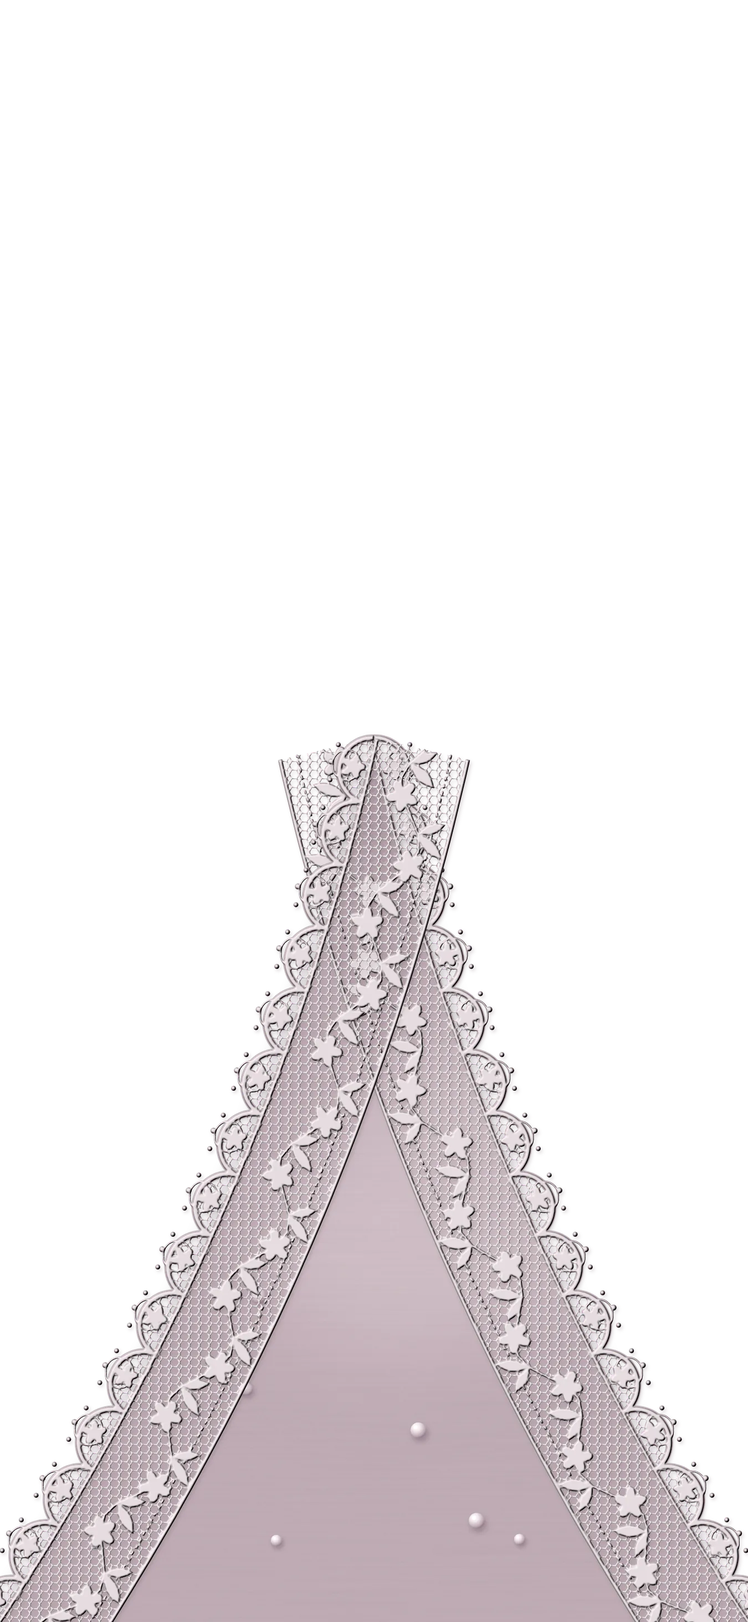
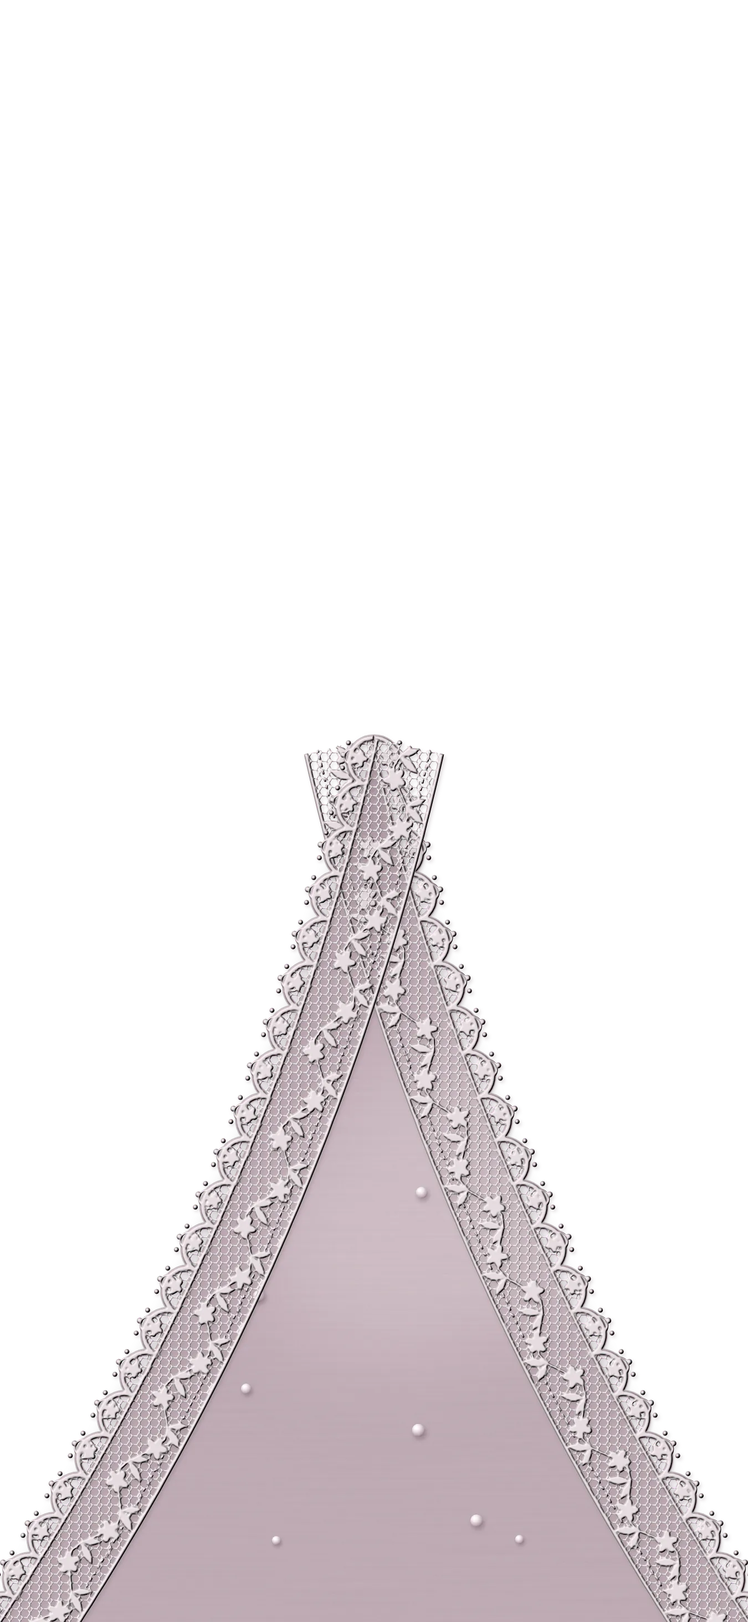
Slower, finer envelope opening
Claude-Session: https://claude.ai/code/session_012TaZ8zuKBP6pkFoWipGzvm

Changed region(s): [[0.0, 0.4356, 1.0, 1.0]]

diff --git a/janti/index.html b/janti/index.html
@@ -21,11 +21,11 @@ body.rd{overflow-y:auto}
 .fl img{pointer-events:none;user-select:none;-webkit-user-drag:none}.fl img.full{position:absolute;inset:0;width:100%;height:100%;object-fit:cover}
 .fl .shade{position:absolute;inset:0;background:#2a1220;opacity:0;pointer-events:none;-webkit-mask:var(--m) center/cover no-repeat;mask:var(--m) center/cover no-repeat}
 .fl.t{transform-origin:50% 0;z-index:4}.fl.b{transform-origin:50% 100%;z-index:3}.fl.l{transform-origin:0 50%;z-index:1}.fl.r{transform-origin:100% 50%;z-index:2}
-.seal{position:absolute;left:50%;top:50%;width:37.8%;height:auto;transform:translate(-50%,-50%);will-change:transform,opacity}.seal.sa{clip-path:polygon(0 0,57% 0,45% 20%,56% 38%,43% 58%,55% 78%,47% 100%,0 100%)}.seal.sb{clip-path:polygon(57% 0,100% 0,100% 100%,47% 100%,55% 78%,43% 58%,56% 38%,45% 20%)}
-.tag{position:absolute;left:50%;bottom:7.5%;transform:translateX(-50%);min-width:58%;max-width:82%;padding:12px 18px 11px;text-align:center;background:linear-gradient(#f6eff2,#e9dde3);border-radius:2px;box-shadow:0 0 0 1px #b9a0ad,0 0 0 4px #f3ebef,0 0 0 5px #b9a0ad88,0 10px 18px #3a1b2a55;color:var(--deep);display:none}
+.seal{position:absolute;left:50%;top:50%;width:29%;height:auto;transform:translate(-50%,-50%);will-change:transform,opacity}.seal.sa{clip-path:polygon(0 0,57% 0,45% 20%,56% 38%,43% 58%,55% 78%,47% 100%,0 100%)}.seal.sb{clip-path:polygon(57% 0,100% 0,100% 100%,47% 100%,55% 78%,43% 58%,56% 38%,45% 20%)}
+.tag{position:absolute;left:50%;bottom:8%;transform:translateX(-50%);min-width:46%;max-width:72%;padding:9px 14px 8px;text-align:center;background:linear-gradient(#f6eff2,#e9dde3);border-radius:2px;box-shadow:0 0 0 1px #b9a0ad,0 0 0 4px #f3ebef,0 0 0 5px #b9a0ad88,0 10px 18px #3a1b2a55;color:var(--deep);display:none}
 .tag:before{content:'';position:absolute;left:50%;top:-8px;width:10px;height:10px;margin-left:-5px;border-radius:50%;background:radial-gradient(circle at 35% 30%,#fff,#d8c8d0 45%,#9d8592);box-shadow:0 1px 2px #0005}
-.tag small{display:block;font:500 10.5px var(--bd);letter-spacing:.34em;text-transform:uppercase;color:#8a6f7d}
-.tag b{display:block;font:400 26px/1.15 var(--sc);color:var(--deep);overflow-wrap:anywhere}
+.tag small{display:block;font:500 9px var(--bd);letter-spacing:.34em;text-transform:uppercase;color:#8a6f7d}
+.tag b{display:block;font:400 21px/1.15 var(--sc);color:var(--deep);overflow-wrap:anywhere}
 .named .tag{display:block}
 .hint{position:absolute;left:0;right:0;bottom:2.4%;text-align:center;font:500 11px var(--bd);letter-spacing:.36em;text-transform:uppercase;color:#7a5f6d;z-index:6;transition:opacity .4s;animation:breathe 2.6s ease-in-out infinite;transform:translateZ(2px)}
 @keyframes breathe{50%{opacity:.4}}
@@ -242,19 +242,19 @@ function open(user){if(opened)return;if(!ready){want=user;return}opened=true;env
  var t=env.querySelector('.fl.t'),b=env.querySelector('.fl.b'),l=env.querySelector('.fl.l'),r=env.querySelector('.fl.r'),hero=$('hero'),bg=hero.querySelector('.bg');
  if(!env.animate){finish();return}
  var sa=env.querySelector('.seal.sa'),sb=env.querySelector('.seal.sb');
- an(sa,[{transform:'translate(-50%,-50%)',opacity:1},{transform:'translate(-50%,-50%) translate(-6px,2px) rotate(-4deg)',opacity:1,offset:.25},{transform:'translate(-50%,-50%) translate(-46px,30px) rotate(-26deg)',opacity:0}],{duration:800,easing:'cubic-bezier(.4,0,.6,1)'});
- an(sb,[{transform:'translate(-50%,-50%)',opacity:1},{transform:'translate(-50%,-50%) translate(6px,3px) rotate(4deg)',opacity:1,offset:.25},{transform:'translate(-50%,-50%) translate(48px,36px) rotate(24deg)',opacity:0}],{duration:800,easing:'cubic-bezier(.4,0,.6,1)'});
- var E2='cubic-bezier(.45,.02,.25,1)';
+ an(sa,[{transform:'translate(-50%,-50%)',opacity:1},{transform:'translate(-50%,-50%) translate(-4px,1px) rotate(-3deg)',opacity:1,offset:.3},{transform:'translate(-50%,-50%) translate(-40px,26px) rotate(-22deg)',opacity:0}],{duration:1300,easing:'cubic-bezier(.4,0,.5,1)'});
+ an(sb,[{transform:'translate(-50%,-50%)',opacity:1},{transform:'translate(-50%,-50%) translate(4px,2px) rotate(3deg)',opacity:1,offset:.3},{transform:'translate(-50%,-50%) translate(42px,30px) rotate(20deg)',opacity:0}],{duration:1300,easing:'cubic-bezier(.4,0,.5,1)'});
+ var E2='cubic-bezier(.42,0,.22,1)';
  function flip(el,axis,deg,z,delay,dur){var o={duration:dur,delay:delay,easing:E2};
   an(el,[{transform:'translateZ('+z+'px) rotate'+axis+'(0deg)'},{transform:'translateZ('+z+'px) rotate'+axis+'('+deg+'deg)'}],o);
   var f=el.querySelector('.fc .shd'),k=el.querySelector('.bk .shd');
   an(f,[{opacity:0},{opacity:.28,offset:.5},{opacity:.28}],o);an(k,[{opacity:.3},{opacity:.3,offset:.5},{opacity:.05}],o)}
- flip(t,'X',180,1.5,420,1350);
- flip(b,'X',-180,1,950,1300);
- flip(l,'Y',-180,0,1350,1300);flip(r,'Y',180,0,1430,1300);
- an(bg,[{transform:'scale(1.08)'},{transform:'scale(1)'}],{duration:2400,delay:900,easing:'cubic-bezier(.2,.7,.2,1)'});
- setTimeout(function(){hero.classList.add('in')},2300);
- setTimeout(finish,2900)}
+ flip(t,'X',180,1.5,700,2300);
+ flip(b,'X',-180,1,1700,2200);
+ flip(l,'Y',-180,0,2400,2200);flip(r,'Y',180,0,2550,2200);
+ an(bg,[{transform:'scale(1.08)'},{transform:'scale(1)'}],{duration:3600,delay:1400,easing:'cubic-bezier(.2,.7,.2,1)'});
+ setTimeout(function(){hero.classList.add('in')},4000);
+ setTimeout(finish,4900)}
 function finish(){document.body.classList.add('rd');if(window.startSpk)startSpk();secs[0].classList.add('in');env.style.display='none';if(io)for(var i=1;i<secs.length;i++)io.observe(secs[i]);else secs.forEach(function(s){s.classList.add('in')});par()}
 env.style.backgroundColor='transparent';
 env.addEventListener('click',function(){open(true)});

diff --git a/ne/janti/index.html b/ne/janti/index.html
@@ -21,11 +21,11 @@ body.rd{overflow-y:auto}
 .fl img{pointer-events:none;user-select:none;-webkit-user-drag:none}.fl img.full{position:absolute;inset:0;width:100%;height:100%;object-fit:cover}
 .fl .shade{position:absolute;inset:0;background:#2a1220;opacity:0;pointer-events:none;-webkit-mask:var(--m) center/cover no-repeat;mask:var(--m) center/cover no-repeat}
 .fl.t{transform-origin:50% 0;z-index:4}.fl.b{transform-origin:50% 100%;z-index:3}.fl.l{transform-origin:0 50%;z-index:1}.fl.r{transform-origin:100% 50%;z-index:2}
-.seal{position:absolute;left:50%;top:50%;width:37.8%;height:auto;transform:translate(-50%,-50%);will-change:transform,opacity}.seal.sa{clip-path:polygon(0 0,57% 0,45% 20%,56% 38%,43% 58%,55% 78%,47% 100%,0 100%)}.seal.sb{clip-path:polygon(57% 0,100% 0,100% 100%,47% 100%,55% 78%,43% 58%,56% 38%,45% 20%)}
-.tag{position:absolute;left:50%;bottom:7.5%;transform:translateX(-50%);min-width:58%;max-width:82%;padding:12px 18px 11px;text-align:center;background:linear-gradient(#f6eff2,#e9dde3);border-radius:2px;box-shadow:0 0 0 1px #b9a0ad,0 0 0 4px #f3ebef,0 0 0 5px #b9a0ad88,0 10px 18px #3a1b2a55;color:var(--deep);display:none}
+.seal{position:absolute;left:50%;top:50%;width:29%;height:auto;transform:translate(-50%,-50%);will-change:transform,opacity}.seal.sa{clip-path:polygon(0 0,57% 0,45% 20%,56% 38%,43% 58%,55% 78%,47% 100%,0 100%)}.seal.sb{clip-path:polygon(57% 0,100% 0,100% 100%,47% 100%,55% 78%,43% 58%,56% 38%,45% 20%)}
+.tag{position:absolute;left:50%;bottom:8%;transform:translateX(-50%);min-width:46%;max-width:72%;padding:9px 14px 8px;text-align:center;background:linear-gradient(#f6eff2,#e9dde3);border-radius:2px;box-shadow:0 0 0 1px #b9a0ad,0 0 0 4px #f3ebef,0 0 0 5px #b9a0ad88,0 10px 18px #3a1b2a55;color:var(--deep);display:none}
 .tag:before{content:'';position:absolute;left:50%;top:-8px;width:10px;height:10px;margin-left:-5px;border-radius:50%;background:radial-gradient(circle at 35% 30%,#fff,#d8c8d0 45%,#9d8592);box-shadow:0 1px 2px #0005}
-.tag small{display:block;font:500 10.5px var(--bd);letter-spacing:.34em;text-transform:uppercase;color:#8a6f7d}
-.tag b{display:block;font:400 26px/1.15 var(--sc);color:var(--deep);overflow-wrap:anywhere}
+.tag small{display:block;font:500 9px var(--bd);letter-spacing:.34em;text-transform:uppercase;color:#8a6f7d}
+.tag b{display:block;font:400 21px/1.15 var(--sc);color:var(--deep);overflow-wrap:anywhere}
 .named .tag{display:block}
 .hint{position:absolute;left:0;right:0;bottom:2.4%;text-align:center;font:500 11px var(--bd);letter-spacing:.36em;text-transform:uppercase;color:#7a5f6d;z-index:6;transition:opacity .4s;animation:breathe 2.6s ease-in-out infinite;transform:translateZ(2px)}
 @keyframes breathe{50%{opacity:.4}}
@@ -242,19 +242,19 @@ function open(user){if(opened)return;if(!ready){want=user;return}opened=true;env
  var t=env.querySelector('.fl.t'),b=env.querySelector('.fl.b'),l=env.querySelector('.fl.l'),r=env.querySelector('.fl.r'),hero=$('hero'),bg=hero.querySelector('.bg');
  if(!env.animate){finish();return}
  var sa=env.querySelector('.seal.sa'),sb=env.querySelector('.seal.sb');
- an(sa,[{transform:'translate(-50%,-50%)',opacity:1},{transform:'translate(-50%,-50%) translate(-6px,2px) rotate(-4deg)',opacity:1,offset:.25},{transform:'translate(-50%,-50%) translate(-46px,30px) rotate(-26deg)',opacity:0}],{duration:800,easing:'cubic-bezier(.4,0,.6,1)'});
- an(sb,[{transform:'translate(-50%,-50%)',opacity:1},{transform:'translate(-50%,-50%) translate(6px,3px) rotate(4deg)',opacity:1,offset:.25},{transform:'translate(-50%,-50%) translate(48px,36px) rotate(24deg)',opacity:0}],{duration:800,easing:'cubic-bezier(.4,0,.6,1)'});
- var E2='cubic-bezier(.45,.02,.25,1)';
+ an(sa,[{transform:'translate(-50%,-50%)',opacity:1},{transform:'translate(-50%,-50%) translate(-4px,1px) rotate(-3deg)',opacity:1,offset:.3},{transform:'translate(-50%,-50%) translate(-40px,26px) rotate(-22deg)',opacity:0}],{duration:1300,easing:'cubic-bezier(.4,0,.5,1)'});
+ an(sb,[{transform:'translate(-50%,-50%)',opacity:1},{transform:'translate(-50%,-50%) translate(4px,2px) rotate(3deg)',opacity:1,offset:.3},{transform:'translate(-50%,-50%) translate(42px,30px) rotate(20deg)',opacity:0}],{duration:1300,easing:'cubic-bezier(.4,0,.5,1)'});
+ var E2='cubic-bezier(.42,0,.22,1)';
  function flip(el,axis,deg,z,delay,dur){var o={duration:dur,delay:delay,easing:E2};
   an(el,[{transform:'translateZ('+z+'px) rotate'+axis+'(0deg)'},{transform:'translateZ('+z+'px) rotate'+axis+'('+deg+'deg)'}],o);
   var f=el.querySelector('.fc .shd'),k=el.querySelector('.bk .shd');
   an(f,[{opacity:0},{opacity:.28,offset:.5},{opacity:.28}],o);an(k,[{opacity:.3},{opacity:.3,offset:.5},{opacity:.05}],o)}
- flip(t,'X',180,1.5,420,1350);
- flip(b,'X',-180,1,950,1300);
- flip(l,'Y',-180,0,1350,1300);flip(r,'Y',180,0,1430,1300);
- an(bg,[{transform:'scale(1.08)'},{transform:'scale(1)'}],{duration:2400,delay:900,easing:'cubic-bezier(.2,.7,.2,1)'});
- setTimeout(function(){hero.classList.add('in')},2300);
- setTimeout(finish,2900)}
+ flip(t,'X',180,1.5,700,2300);
+ flip(b,'X',-180,1,1700,2200);
+ flip(l,'Y',-180,0,2400,2200);flip(r,'Y',180,0,2550,2200);
+ an(bg,[{transform:'scale(1.08)'},{transform:'scale(1)'}],{duration:3600,delay:1400,easing:'cubic-bezier(.2,.7,.2,1)'});
+ setTimeout(function(){hero.classList.add('in')},4000);
+ setTimeout(finish,4900)}
 function finish(){document.body.classList.add('rd');if(window.startSpk)startSpk();secs[0].classList.add('in');env.style.display='none';if(io)for(var i=1;i<secs.length;i++)io.observe(secs[i]);else secs.forEach(function(s){s.classList.add('in')});par()}
 env.style.backgroundColor='transparent';
 env.addEventListener('click',function(){open(true)});

diff --git a/ne/reception/index.html b/ne/reception/index.html
@@ -21,11 +21,11 @@ body.rd{overflow-y:auto}
 .fl img{pointer-events:none;user-select:none;-webkit-user-drag:none}.fl img.full{position:absolute;inset:0;width:100%;height:100%;object-fit:cover}
 .fl .shade{position:absolute;inset:0;background:#2a1220;opacity:0;pointer-events:none;-webkit-mask:var(--m) center/cover no-repeat;mask:var(--m) center/cover no-repeat}
 .fl.t{transform-origin:50% 0;z-index:4}.fl.b{transform-origin:50% 100%;z-index:3}.fl.l{transform-origin:0 50%;z-index:1}.fl.r{transform-origin:100% 50%;z-index:2}
-.seal{position:absolute;left:50%;top:50%;width:37.8%;height:auto;transform:translate(-50%,-50%);will-change:transform,opacity}.seal.sa{clip-path:polygon(0 0,57% 0,45% 20%,56% 38%,43% 58%,55% 78%,47% 100%,0 100%)}.seal.sb{clip-path:polygon(57% 0,100% 0,100% 100%,47% 100%,55% 78%,43% 58%,56% 38%,45% 20%)}
-.tag{position:absolute;left:50%;bottom:7.5%;transform:translateX(-50%);min-width:58%;max-width:82%;padding:12px 18px 11px;text-align:center;background:linear-gradient(#f6eff2,#e9dde3);border-radius:2px;box-shadow:0 0 0 1px #b9a0ad,0 0 0 4px #f3ebef,0 0 0 5px #b9a0ad88,0 10px 18px #3a1b2a55;color:var(--deep);display:none}
+.seal{position:absolute;left:50%;top:50%;width:29%;height:auto;transform:translate(-50%,-50%);will-change:transform,opacity}.seal.sa{clip-path:polygon(0 0,57% 0,45% 20%,56% 38%,43% 58%,55% 78%,47% 100%,0 100%)}.seal.sb{clip-path:polygon(57% 0,100% 0,100% 100%,47% 100%,55% 78%,43% 58%,56% 38%,45% 20%)}
+.tag{position:absolute;left:50%;bottom:8%;transform:translateX(-50%);min-width:46%;max-width:72%;padding:9px 14px 8px;text-align:center;background:linear-gradient(#f6eff2,#e9dde3);border-radius:2px;box-shadow:0 0 0 1px #b9a0ad,0 0 0 4px #f3ebef,0 0 0 5px #b9a0ad88,0 10px 18px #3a1b2a55;color:var(--deep);display:none}
 .tag:before{content:'';position:absolute;left:50%;top:-8px;width:10px;height:10px;margin-left:-5px;border-radius:50%;background:radial-gradient(circle at 35% 30%,#fff,#d8c8d0 45%,#9d8592);box-shadow:0 1px 2px #0005}
-.tag small{display:block;font:500 10.5px var(--bd);letter-spacing:.34em;text-transform:uppercase;color:#8a6f7d}
-.tag b{display:block;font:400 26px/1.15 var(--sc);color:var(--deep);overflow-wrap:anywhere}
+.tag small{display:block;font:500 9px var(--bd);letter-spacing:.34em;text-transform:uppercase;color:#8a6f7d}
+.tag b{display:block;font:400 21px/1.15 var(--sc);color:var(--deep);overflow-wrap:anywhere}
 .named .tag{display:block}
 .hint{position:absolute;left:0;right:0;bottom:2.4%;text-align:center;font:500 11px var(--bd);letter-spacing:.36em;text-transform:uppercase;color:#7a5f6d;z-index:6;transition:opacity .4s;animation:breathe 2.6s ease-in-out infinite;transform:translateZ(2px)}
 @keyframes breathe{50%{opacity:.4}}
@@ -242,19 +242,19 @@ function open(user){if(opened)return;if(!ready){want=user;return}opened=true;env
  var t=env.querySelector('.fl.t'),b=env.querySelector('.fl.b'),l=env.querySelector('.fl.l'),r=env.querySelector('.fl.r'),hero=$('hero'),bg=hero.querySelector('.bg');
  if(!env.animate){finish();return}
  var sa=env.querySelector('.seal.sa'),sb=env.querySelector('.seal.sb');
- an(sa,[{transform:'translate(-50%,-50%)',opacity:1},{transform:'translate(-50%,-50%) translate(-6px,2px) rotate(-4deg)',opacity:1,offset:.25},{transform:'translate(-50%,-50%) translate(-46px,30px) rotate(-26deg)',opacity:0}],{duration:800,easing:'cubic-bezier(.4,0,.6,1)'});
- an(sb,[{transform:'translate(-50%,-50%)',opacity:1},{transform:'translate(-50%,-50%) translate(6px,3px) rotate(4deg)',opacity:1,offset:.25},{transform:'translate(-50%,-50%) translate(48px,36px) rotate(24deg)',opacity:0}],{duration:800,easing:'cubic-bezier(.4,0,.6,1)'});
- var E2='cubic-bezier(.45,.02,.25,1)';
+ an(sa,[{transform:'translate(-50%,-50%)',opacity:1},{transform:'translate(-50%,-50%) translate(-4px,1px) rotate(-3deg)',opacity:1,offset:.3},{transform:'translate(-50%,-50%) translate(-40px,26px) rotate(-22deg)',opacity:0}],{duration:1300,easing:'cubic-bezier(.4,0,.5,1)'});
+ an(sb,[{transform:'translate(-50%,-50%)',opacity:1},{transform:'translate(-50%,-50%) translate(4px,2px) rotate(3deg)',opacity:1,offset:.3},{transform:'translate(-50%,-50%) translate(42px,30px) rotate(20deg)',opacity:0}],{duration:1300,easing:'cubic-bezier(.4,0,.5,1)'});
+ var E2='cubic-bezier(.42,0,.22,1)';
  function flip(el,axis,deg,z,delay,dur){var o={duration:dur,delay:delay,easing:E2};
   an(el,[{transform:'translateZ('+z+'px) rotate'+axis+'(0deg)'},{transform:'translateZ('+z+'px) rotate'+axis+'('+deg+'deg)'}],o);
   var f=el.querySelector('.fc .shd'),k=el.querySelector('.bk .shd');
   an(f,[{opacity:0},{opacity:.28,offset:.5},{opacity:.28}],o);an(k,[{opacity:.3},{opacity:.3,offset:.5},{opacity:.05}],o)}
- flip(t,'X',180,1.5,420,1350);
- flip(b,'X',-180,1,950,1300);
- flip(l,'Y',-180,0,1350,1300);flip(r,'Y',180,0,1430,1300);
- an(bg,[{transform:'scale(1.08)'},{transform:'scale(1)'}],{duration:2400,delay:900,easing:'cubic-bezier(.2,.7,.2,1)'});
- setTimeout(function(){hero.classList.add('in')},2300);
- setTimeout(finish,2900)}
+ flip(t,'X',180,1.5,700,2300);
+ flip(b,'X',-180,1,1700,2200);
+ flip(l,'Y',-180,0,2400,2200);flip(r,'Y',180,0,2550,2200);
+ an(bg,[{transform:'scale(1.08)'},{transform:'scale(1)'}],{duration:3600,delay:1400,easing:'cubic-bezier(.2,.7,.2,1)'});
+ setTimeout(function(){hero.classList.add('in')},4000);
+ setTimeout(finish,4900)}
 function finish(){document.body.classList.add('rd');if(window.startSpk)startSpk();secs[0].classList.add('in');env.style.display='none';if(io)for(var i=1;i<secs.length;i++)io.observe(secs[i]);else secs.forEach(function(s){s.classList.add('in')});par()}
 env.style.backgroundColor='transparent';
 env.addEventListener('click',function(){open(true)});

diff --git a/ne/wedding/index.html b/ne/wedding/index.html
@@ -21,11 +21,11 @@ body.rd{overflow-y:auto}
 .fl img{pointer-events:none;user-select:none;-webkit-user-drag:none}.fl img.full{position:absolute;inset:0;width:100%;height:100%;object-fit:cover}
 .fl .shade{position:absolute;inset:0;background:#2a1220;opacity:0;pointer-events:none;-webkit-mask:var(--m) center/cover no-repeat;mask:var(--m) center/cover no-repeat}
 .fl.t{transform-origin:50% 0;z-index:4}.fl.b{transform-origin:50% 100%;z-index:3}.fl.l{transform-origin:0 50%;z-index:1}.fl.r{transform-origin:100% 50%;z-index:2}
-.seal{position:absolute;left:50%;top:50%;width:37.8%;height:auto;transform:translate(-50%,-50%);will-change:transform,opacity}.seal.sa{clip-path:polygon(0 0,57% 0,45% 20%,56% 38%,43% 58%,55% 78%,47% 100%,0 100%)}.seal.sb{clip-path:polygon(57% 0,100% 0,100% 100%,47% 100%,55% 78%,43% 58%,56% 38%,45% 20%)}
-.tag{position:absolute;left:50%;bottom:7.5%;transform:translateX(-50%);min-width:58%;max-width:82%;padding:12px 18px 11px;text-align:center;background:linear-gradient(#f6eff2,#e9dde3);border-radius:2px;box-shadow:0 0 0 1px #b9a0ad,0 0 0 4px #f3ebef,0 0 0 5px #b9a0ad88,0 10px 18px #3a1b2a55;color:var(--deep);display:none}
+.seal{position:absolute;left:50%;top:50%;width:29%;height:auto;transform:translate(-50%,-50%);will-change:transform,opacity}.seal.sa{clip-path:polygon(0 0,57% 0,45% 20%,56% 38%,43% 58%,55% 78%,47% 100%,0 100%)}.seal.sb{clip-path:polygon(57% 0,100% 0,100% 100%,47% 100%,55% 78%,43% 58%,56% 38%,45% 20%)}
+.tag{position:absolute;left:50%;bottom:8%;transform:translateX(-50%);min-width:46%;max-width:72%;padding:9px 14px 8px;text-align:center;background:linear-gradient(#f6eff2,#e9dde3);border-radius:2px;box-shadow:0 0 0 1px #b9a0ad,0 0 0 4px #f3ebef,0 0 0 5px #b9a0ad88,0 10px 18px #3a1b2a55;color:var(--deep);display:none}
 .tag:before{content:'';position:absolute;left:50%;top:-8px;width:10px;height:10px;margin-left:-5px;border-radius:50%;background:radial-gradient(circle at 35% 30%,#fff,#d8c8d0 45%,#9d8592);box-shadow:0 1px 2px #0005}
-.tag small{display:block;font:500 10.5px var(--bd);letter-spacing:.34em;text-transform:uppercase;color:#8a6f7d}
-.tag b{display:block;font:400 26px/1.15 var(--sc);color:var(--deep);overflow-wrap:anywhere}
+.tag small{display:block;font:500 9px var(--bd);letter-spacing:.34em;text-transform:uppercase;color:#8a6f7d}
+.tag b{display:block;font:400 21px/1.15 var(--sc);color:var(--deep);overflow-wrap:anywhere}
 .named .tag{display:block}
 .hint{position:absolute;left:0;right:0;bottom:2.4%;text-align:center;font:500 11px var(--bd);letter-spacing:.36em;text-transform:uppercase;color:#7a5f6d;z-index:6;transition:opacity .4s;animation:breathe 2.6s ease-in-out infinite;transform:translateZ(2px)}
 @keyframes breathe{50%{opacity:.4}}
@@ -242,19 +242,19 @@ function open(user){if(opened)return;if(!ready){want=user;return}opened=true;env
  var t=env.querySelector('.fl.t'),b=env.querySelector('.fl.b'),l=env.querySelector('.fl.l'),r=env.querySelector('.fl.r'),hero=$('hero'),bg=hero.querySelector('.bg');
  if(!env.animate){finish();return}
  var sa=env.querySelector('.seal.sa'),sb=env.querySelector('.seal.sb');
- an(sa,[{transform:'translate(-50%,-50%)',opacity:1},{transform:'translate(-50%,-50%) translate(-6px,2px) rotate(-4deg)',opacity:1,offset:.25},{transform:'translate(-50%,-50%) translate(-46px,30px) rotate(-26deg)',opacity:0}],{duration:800,easing:'cubic-bezier(.4,0,.6,1)'});
- an(sb,[{transform:'translate(-50%,-50%)',opacity:1},{transform:'translate(-50%,-50%) translate(6px,3px) rotate(4deg)',opacity:1,offset:.25},{transform:'translate(-50%,-50%) translate(48px,36px) rotate(24deg)',opacity:0}],{duration:800,easing:'cubic-bezier(.4,0,.6,1)'});
- var E2='cubic-bezier(.45,.02,.25,1)';
+ an(sa,[{transform:'translate(-50%,-50%)',opacity:1},{transform:'translate(-50%,-50%) translate(-4px,1px) rotate(-3deg)',opacity:1,offset:.3},{transform:'translate(-50%,-50%) translate(-40px,26px) rotate(-22deg)',opacity:0}],{duration:1300,easing:'cubic-bezier(.4,0,.5,1)'});
+ an(sb,[{transform:'translate(-50%,-50%)',opacity:1},{transform:'translate(-50%,-50%) translate(4px,2px) rotate(3deg)',opacity:1,offset:.3},{transform:'translate(-50%,-50%) translate(42px,30px) rotate(20deg)',opacity:0}],{duration:1300,easing:'cubic-bezier(.4,0,.5,1)'});
+ var E2='cubic-bezier(.42,0,.22,1)';
  function flip(el,axis,deg,z,delay,dur){var o={duration:dur,delay:delay,easing:E2};
   an(el,[{transform:'translateZ('+z+'px) rotate'+axis+'(0deg)'},{transform:'translateZ('+z+'px) rotate'+axis+'('+deg+'deg)'}],o);
   var f=el.querySelector('.fc .shd'),k=el.querySelector('.bk .shd');
   an(f,[{opacity:0},{opacity:.28,offset:.5},{opacity:.28}],o);an(k,[{opacity:.3},{opacity:.3,offset:.5},{opacity:.05}],o)}
- flip(t,'X',180,1.5,420,1350);
- flip(b,'X',-180,1,950,1300);
- flip(l,'Y',-180,0,1350,1300);flip(r,'Y',180,0,1430,1300);
- an(bg,[{transform:'scale(1.08)'},{transform:'scale(1)'}],{duration:2400,delay:900,easing:'cubic-bezier(.2,.7,.2,1)'});
- setTimeout(function(){hero.classList.add('in')},2300);
- setTimeout(finish,2900)}
+ flip(t,'X',180,1.5,700,2300);
+ flip(b,'X',-180,1,1700,2200);
+ flip(l,'Y',-180,0,2400,2200);flip(r,'Y',180,0,2550,2200);
+ an(bg,[{transform:'scale(1.08)'},{transform:'scale(1)'}],{duration:3600,delay:1400,easing:'cubic-bezier(.2,.7,.2,1)'});
+ setTimeout(function(){hero.classList.add('in')},4000);
+ setTimeout(finish,4900)}
 function finish(){document.body.classList.add('rd');if(window.startSpk)startSpk();secs[0].classList.add('in');env.style.display='none';if(io)for(var i=1;i<secs.length;i++)io.observe(secs[i]);else secs.forEach(function(s){s.classList.add('in')});par()}
 env.style.backgroundColor='transparent';
 env.addEventListener('click',function(){open(true)});

diff --git a/reception/index.html b/reception/index.html
@@ -21,11 +21,11 @@ body.rd{overflow-y:auto}
 .fl img{pointer-events:none;user-select:none;-webkit-user-drag:none}.fl img.full{position:absolute;inset:0;width:100%;height:100%;object-fit:cover}
 .fl .shade{position:absolute;inset:0;background:#2a1220;opacity:0;pointer-events:none;-webkit-mask:var(--m) center/cover no-repeat;mask:var(--m) center/cover no-repeat}
 .fl.t{transform-origin:50% 0;z-index:4}.fl.b{transform-origin:50% 100%;z-index:3}.fl.l{transform-origin:0 50%;z-index:1}.fl.r{transform-origin:100% 50%;z-index:2}
-.seal{position:absolute;left:50%;top:50%;width:37.8%;height:auto;transform:translate(-50%,-50%);will-change:transform,opacity}.seal.sa{clip-path:polygon(0 0,57% 0,45% 20%,56% 38%,43% 58%,55% 78%,47% 100%,0 100%)}.seal.sb{clip-path:polygon(57% 0,100% 0,100% 100%,47% 100%,55% 78%,43% 58%,56% 38%,45% 20%)}
-.tag{position:absolute;left:50%;bottom:7.5%;transform:translateX(-50%);min-width:58%;max-width:82%;padding:12px 18px 11px;text-align:center;background:linear-gradient(#f6eff2,#e9dde3);border-radius:2px;box-shadow:0 0 0 1px #b9a0ad,0 0 0 4px #f3ebef,0 0 0 5px #b9a0ad88,0 10px 18px #3a1b2a55;color:var(--deep);display:none}
+.seal{position:absolute;left:50%;top:50%;width:29%;height:auto;transform:translate(-50%,-50%);will-change:transform,opacity}.seal.sa{clip-path:polygon(0 0,57% 0,45% 20%,56% 38%,43% 58%,55% 78%,47% 100%,0 100%)}.seal.sb{clip-path:polygon(57% 0,100% 0,100% 100%,47% 100%,55% 78%,43% 58%,56% 38%,45% 20%)}
+.tag{position:absolute;left:50%;bottom:8%;transform:translateX(-50%);min-width:46%;max-width:72%;padding:9px 14px 8px;text-align:center;background:linear-gradient(#f6eff2,#e9dde3);border-radius:2px;box-shadow:0 0 0 1px #b9a0ad,0 0 0 4px #f3ebef,0 0 0 5px #b9a0ad88,0 10px 18px #3a1b2a55;color:var(--deep);display:none}
 .tag:before{content:'';position:absolute;left:50%;top:-8px;width:10px;height:10px;margin-left:-5px;border-radius:50%;background:radial-gradient(circle at 35% 30%,#fff,#d8c8d0 45%,#9d8592);box-shadow:0 1px 2px #0005}
-.tag small{display:block;font:500 10.5px var(--bd);letter-spacing:.34em;text-transform:uppercase;color:#8a6f7d}
-.tag b{display:block;font:400 26px/1.15 var(--sc);color:var(--deep);overflow-wrap:anywhere}
+.tag small{display:block;font:500 9px var(--bd);letter-spacing:.34em;text-transform:uppercase;color:#8a6f7d}
+.tag b{display:block;font:400 21px/1.15 var(--sc);color:var(--deep);overflow-wrap:anywhere}
 .named .tag{display:block}
 .hint{position:absolute;left:0;right:0;bottom:2.4%;text-align:center;font:500 11px var(--bd);letter-spacing:.36em;text-transform:uppercase;color:#7a5f6d;z-index:6;transition:opacity .4s;animation:breathe 2.6s ease-in-out infinite;transform:translateZ(2px)}
 @keyframes breathe{50%{opacity:.4}}
@@ -242,19 +242,19 @@ function open(user){if(opened)return;if(!ready){want=user;return}opened=true;env
  var t=env.querySelector('.fl.t'),b=env.querySelector('.fl.b'),l=env.querySelector('.fl.l'),r=env.querySelector('.fl.r'),hero=$('hero'),bg=hero.querySelector('.bg');
  if(!env.animate){finish();return}
  var sa=env.querySelector('.seal.sa'),sb=env.querySelector('.seal.sb');
- an(sa,[{transform:'translate(-50%,-50%)',opacity:1},{transform:'translate(-50%,-50%) translate(-6px,2px) rotate(-4deg)',opacity:1,offset:.25},{transform:'translate(-50%,-50%) translate(-46px,30px) rotate(-26deg)',opacity:0}],{duration:800,easing:'cubic-bezier(.4,0,.6,1)'});
- an(sb,[{transform:'translate(-50%,-50%)',opacity:1},{transform:'translate(-50%,-50%) translate(6px,3px) rotate(4deg)',opacity:1,offset:.25},{transform:'translate(-50%,-50%) translate(48px,36px) rotate(24deg)',opacity:0}],{duration:800,easing:'cubic-bezier(.4,0,.6,1)'});
- var E2='cubic-bezier(.45,.02,.25,1)';
+ an(sa,[{transform:'translate(-50%,-50%)',opacity:1},{transform:'translate(-50%,-50%) translate(-4px,1px) rotate(-3deg)',opacity:1,offset:.3},{transform:'translate(-50%,-50%) translate(-40px,26px) rotate(-22deg)',opacity:0}],{duration:1300,easing:'cubic-bezier(.4,0,.5,1)'});
+ an(sb,[{transform:'translate(-50%,-50%)',opacity:1},{transform:'translate(-50%,-50%) translate(4px,2px) rotate(3deg)',opacity:1,offset:.3},{transform:'translate(-50%,-50%) translate(42px,30px) rotate(20deg)',opacity:0}],{duration:1300,easing:'cubic-bezier(.4,0,.5,1)'});
+ var E2='cubic-bezier(.42,0,.22,1)';
  function flip(el,axis,deg,z,delay,dur){var o={duration:dur,delay:delay,easing:E2};
   an(el,[{transform:'translateZ('+z+'px) rotate'+axis+'(0deg)'},{transform:'translateZ('+z+'px) rotate'+axis+'('+deg+'deg)'}],o);
   var f=el.querySelector('.fc .shd'),k=el.querySelector('.bk .shd');
   an(f,[{opacity:0},{opacity:.28,offset:.5},{opacity:.28}],o);an(k,[{opacity:.3},{opacity:.3,offset:.5},{opacity:.05}],o)}
- flip(t,'X',180,1.5,420,1350);
- flip(b,'X',-180,1,950,1300);
- flip(l,'Y',-180,0,1350,1300);flip(r,'Y',180,0,1430,1300);
- an(bg,[{transform:'scale(1.08)'},{transform:'scale(1)'}],{duration:2400,delay:900,easing:'cubic-bezier(.2,.7,.2,1)'});
- setTimeout(function(){hero.classList.add('in')},2300);
- setTimeout(finish,2900)}
+ flip(t,'X',180,1.5,700,2300);
+ flip(b,'X',-180,1,1700,2200);
+ flip(l,'Y',-180,0,2400,2200);flip(r,'Y',180,0,2550,2200);
+ an(bg,[{transform:'scale(1.08)'},{transform:'scale(1)'}],{duration:3600,delay:1400,easing:'cubic-bezier(.2,.7,.2,1)'});
+ setTimeout(function(){hero.classList.add('in')},4000);
+ setTimeout(finish,4900)}
 function finish(){document.body.classList.add('rd');if(window.startSpk)startSpk();secs[0].classList.add('in');env.style.display='none';if(io)for(var i=1;i<secs.length;i++)io.observe(secs[i]);else secs.forEach(function(s){s.classList.add('in')});par()}
 env.style.backgroundColor='transparent';
 env.addEventListener('click',function(){open(true)});

diff --git a/wedding/index.html b/wedding/index.html
@@ -21,11 +21,11 @@ body.rd{overflow-y:auto}
 .fl img{pointer-events:none;user-select:none;-webkit-user-drag:none}.fl img.full{position:absolute;inset:0;width:100%;height:100%;object-fit:cover}
 .fl .shade{position:absolute;inset:0;background:#2a1220;opacity:0;pointer-events:none;-webkit-mask:var(--m) center/cover no-repeat;mask:var(--m) center/cover no-repeat}
 .fl.t{transform-origin:50% 0;z-index:4}.fl.b{transform-origin:50% 100%;z-index:3}.fl.l{transform-origin:0 50%;z-index:1}.fl.r{transform-origin:100% 50%;z-index:2}
-.seal{position:absolute;left:50%;top:50%;width:37.8%;height:auto;transform:translate(-50%,-50%);will-change:transform,opacity}.seal.sa{clip-path:polygon(0 0,57% 0,45% 20%,56% 38%,43% 58%,55% 78%,47% 100%,0 100%)}.seal.sb{clip-path:polygon(57% 0,100% 0,100% 100%,47% 100%,55% 78%,43% 58%,56% 38%,45% 20%)}
-.tag{position:absolute;left:50%;bottom:7.5%;transform:translateX(-50%);min-width:58%;max-width:82%;padding:12px 18px 11px;text-align:center;background:linear-gradient(#f6eff2,#e9dde3);border-radius:2px;box-shadow:0 0 0 1px #b9a0ad,0 0 0 4px #f3ebef,0 0 0 5px #b9a0ad88,0 10px 18px #3a1b2a55;color:var(--deep);display:none}
+.seal{position:absolute;left:50%;top:50%;width:29%;height:auto;transform:translate(-50%,-50%);will-change:transform,opacity}.seal.sa{clip-path:polygon(0 0,57% 0,45% 20%,56% 38%,43% 58%,55% 78%,47% 100%,0 100%)}.seal.sb{clip-path:polygon(57% 0,100% 0,100% 100%,47% 100%,55% 78%,43% 58%,56% 38%,45% 20%)}
+.tag{position:absolute;left:50%;bottom:8%;transform:translateX(-50%);min-width:46%;max-width:72%;padding:9px 14px 8px;text-align:center;background:linear-gradient(#f6eff2,#e9dde3);border-radius:2px;box-shadow:0 0 0 1px #b9a0ad,0 0 0 4px #f3ebef,0 0 0 5px #b9a0ad88,0 10px 18px #3a1b2a55;color:var(--deep);display:none}
 .tag:before{content:'';position:absolute;left:50%;top:-8px;width:10px;height:10px;margin-left:-5px;border-radius:50%;background:radial-gradient(circle at 35% 30%,#fff,#d8c8d0 45%,#9d8592);box-shadow:0 1px 2px #0005}
-.tag small{display:block;font:500 10.5px var(--bd);letter-spacing:.34em;text-transform:uppercase;color:#8a6f7d}
-.tag b{display:block;font:400 26px/1.15 var(--sc);color:var(--deep);overflow-wrap:anywhere}
+.tag small{display:block;font:500 9px var(--bd);letter-spacing:.34em;text-transform:uppercase;color:#8a6f7d}
+.tag b{display:block;font:400 21px/1.15 var(--sc);color:var(--deep);overflow-wrap:anywhere}
 .named .tag{display:block}
 .hint{position:absolute;left:0;right:0;bottom:2.4%;text-align:center;font:500 11px var(--bd);letter-spacing:.36em;text-transform:uppercase;color:#7a5f6d;z-index:6;transition:opacity .4s;animation:breathe 2.6s ease-in-out infinite;transform:translateZ(2px)}
 @keyframes breathe{50%{opacity:.4}}
@@ -242,19 +242,19 @@ function open(user){if(opened)return;if(!ready){want=user;return}opened=true;env
  var t=env.querySelector('.fl.t'),b=env.querySelector('.fl.b'),l=env.querySelector('.fl.l'),r=env.querySelector('.fl.r'),hero=$('hero'),bg=hero.querySelector('.bg');
  if(!env.animate){finish();return}
  var sa=env.querySelector('.seal.sa'),sb=env.querySelector('.seal.sb');
- an(sa,[{transform:'translate(-50%,-50%)',opacity:1},{transform:'translate(-50%,-50%) translate(-6px,2px) rotate(-4deg)',opacity:1,offset:.25},{transform:'translate(-50%,-50%) translate(-46px,30px) rotate(-26deg)',opacity:0}],{duration:800,easing:'cubic-bezier(.4,0,.6,1)'});
- an(sb,[{transform:'translate(-50%,-50%)',opacity:1},{transform:'translate(-50%,-50%) translate(6px,3px) rotate(4deg)',opacity:1,offset:.25},{transform:'translate(-50%,-50%) translate(48px,36px) rotate(24deg)',opacity:0}],{duration:800,easing:'cubic-bezier(.4,0,.6,1)'});
- var E2='cubic-bezier(.45,.02,.25,1)';
+ an(sa,[{transform:'translate(-50%,-50%)',opacity:1},{transform:'translate(-50%,-50%) translate(-4px,1px) rotate(-3deg)',opacity:1,offset:.3},{transform:'translate(-50%,-50%) translate(-40px,26px) rotate(-22deg)',opacity:0}],{duration:1300,easing:'cubic-bezier(.4,0,.5,1)'});
+ an(sb,[{transform:'translate(-50%,-50%)',opacity:1},{transform:'translate(-50%,-50%) translate(4px,2px) rotate(3deg)',opacity:1,offset:.3},{transform:'translate(-50%,-50%) translate(42px,30px) rotate(20deg)',opacity:0}],{duration:1300,easing:'cubic-bezier(.4,0,.5,1)'});
+ var E2='cubic-bezier(.42,0,.22,1)';
  function flip(el,axis,deg,z,delay,dur){var o={duration:dur,delay:delay,easing:E2};
   an(el,[{transform:'translateZ('+z+'px) rotate'+axis+'(0deg)'},{transform:'translateZ('+z+'px) rotate'+axis+'('+deg+'deg)'}],o);
   var f=el.querySelector('.fc .shd'),k=el.querySelector('.bk .shd');
   an(f,[{opacity:0},{opacity:.28,offset:.5},{opacity:.28}],o);an(k,[{opacity:.3},{opacity:.3,offset:.5},{opacity:.05}],o)}
- flip(t,'X',180,1.5,420,1350);
- flip(b,'X',-180,1,950,1300);
- flip(l,'Y',-180,0,1350,1300);flip(r,'Y',180,0,1430,1300);
- an(bg,[{transform:'scale(1.08)'},{transform:'scale(1)'}],{duration:2400,delay:900,easing:'cubic-bezier(.2,.7,.2,1)'});
- setTimeout(function(){hero.classList.add('in')},2300);
- setTimeout(finish,2900)}
+ flip(t,'X',180,1.5,700,2300);
+ flip(b,'X',-180,1,1700,2200);
+ flip(l,'Y',-180,0,2400,2200);flip(r,'Y',180,0,2550,2200);
+ an(bg,[{transform:'scale(1.08)'},{transform:'scale(1)'}],{duration:3600,delay:1400,easing:'cubic-bezier(.2,.7,.2,1)'});
+ setTimeout(function(){hero.classList.add('in')},4000);
+ setTimeout(finish,4900)}
 function finish(){document.body.classList.add('rd');if(window.startSpk)startSpk();secs[0].classList.add('in');env.style.display='none';if(io)for(var i=1;i<secs.length;i++)io.observe(secs[i]);else secs.forEach(function(s){s.classList.add('in')});par()}
 env.style.backgroundColor='transparent';
 env.addEventListener('click',function(){open(true)});
